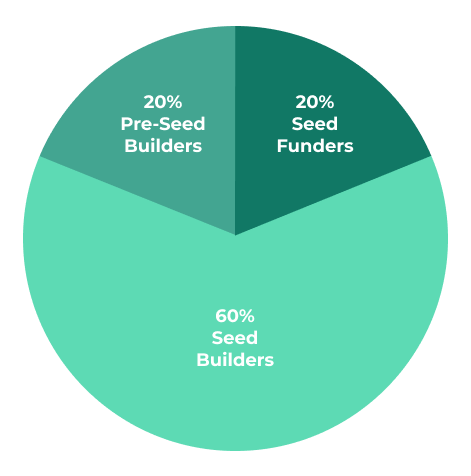
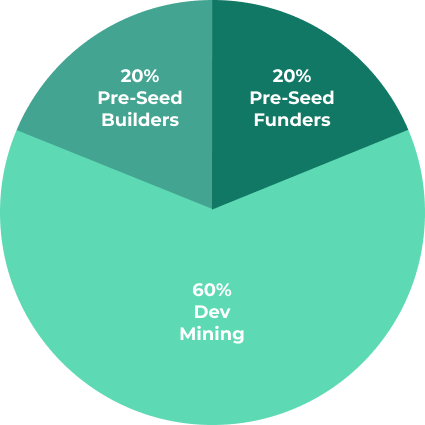
updates

diff --git a/README.md b/README.md
@@ -14,9 +14,9 @@ In the future, it is anticipated that the DAO will also govern:
 
 ## Getting Started
 
-### Seed Funder
+### Pre-Seed Funder
 
-To become a *Seed Funder*:
+To become a *Pre-Seed Funder*:
 
 1. Go to the [DAO's Token Request App](https://client.aragon.org/#/w3api/0x9bb4ea752a3096104c7765ad318b0f9cabaaf95f/).
 2. Click **Connect Wallet** in the top right corner and select your wallet of choice (i.e. Metamask).
@@ -28,9 +28,9 @@ To become a *Seed Funder*:
 
 `W3API` holders will receive this information and vote on your request. If approved, your funds will transfer to the DAO and `W3API` will be minted to your wallet. If rejected, you will be able to withdraw your funds. You may also withdraw your funds at any time before the request is approved.
 
-### Seed Builder
+### Dev Mining
 
-To become a *Seed Builder*:
+To become a *Builder*:
 1. Fork [web3-api/dao](https://github.com/web3-api/dao)'s `master` branch'.
 2. Duplicate the [`TEMPLATE.md`](./spending-proposals/TEMPLATE.md) file in the [`./spending-proposals`](./spending-proposals) folder.
 3. Name the file, complete all required fields, and feel free to get creative with anything else you'd like to add.
@@ -38,7 +38,7 @@ To become a *Seed Builder*:
 5. Create a proposal in the [DAO's snapshot space](https://snapshot.page/#/web3-api), linking to the open PR.
 6. If the DAO proposal passes, the PR can then be merged into master.
 
-*Seed Builders* are granted funds on a per-project basis by the Web3API DAO. Each funded project will have its own spending proposal that helps the DAO budget, maintain accountability, and schedule developments.
+*Builders* are granted funds and `W3API` tokens on a per-project basis by the Web3API DAO. Projects are approved ahead of time to help manage the DAO budget, maintain accountability, and schedule developments.
 
 ## Token Distribution
 > NOTE: Tokens are initially set to be non-transferable.
@@ -48,8 +48,8 @@ To become a *Seed Builder*:
 ### Pre-Seed Builders
 At launch 4,000 `W3API` are minted to *Pre-Seed Builders* in proportion to work contributed before launch on October 1st (viewable [here](./token-allocations/pre-seed-builders.csv)).
 
-### Seed Funders
-4,000 `W3API` will be minted to *Seed Funders*, with a goal of raising $1M by December 31st. Tokens will be priced in three batches (viewable [here](./token-allocations/seed-funders.csv))
+### Pre-Seed Funders
+4,000 `W3API` will be minted to *Pre-Seed Funders*, with a goal of raising $1M by December 31st. Tokens will be priced in three batches (viewable [here](./token-allocations/pre-seed-funders.csv))
 
   | Batch | Supply | Price |
   |-|-|-|
@@ -57,10 +57,10 @@ At launch 4,000 `W3API` are minted to *Pre-Seed Builders* in proportion to work 
   | *B* | 1,500 `W3API`| $250 |
   | *C* | 1,000 `W3API`| $325 |  
 
-> NOTE: If all 4,000 `W3API` are not sold by December 31st, the remaining `W3API` *Seed Funder* allocation will be distributed pro-rata to existing *Seed Funders*.
+> NOTE: If all 4,000 `W3API` are not sold by December 31st, the remaining `W3API` *Pre-Seed Funder* allocation will be distributed pro-rata to existing *Pre-Seed Funders*.
 
-### Seed Builders
-12,000 `W3API` will be minted to *Seed Builders* in proportion to value-added contributions over the first 16 months (~750/month). `W3API` holders will decide on further fundraising and token emission plans after the 16 month seed period.
+### Dev Mining
+12,000 `W3API` will be minted to *Builders* in proportion to value-added contributions over the first 16 months (~750/month). `W3API` holders will decide on further fundraising and token emission plans after the 16 month pre-seed period.
 
 ## Use of Funds
 
@@ -73,7 +73,7 @@ In the first 16 months, it is anticipated that the DAO will allocate funds for:
 
 With the goal of delivering the following in 2021:
 
-<img src="./img/seed-goals.png" width="600px">
+<img src="./img/roadmap.png" width="600px">
 
 ## DAO Configuration
 
@@ -97,7 +97,7 @@ See the full configuration [here](https://client.aragon.org/#/w3api/permissions/
 
 ## Legal
 
-Holders of `W3API` do not constitute any sort of partnership or joint venture, only the right to participate in the governance of the DAO. Further, becoming a Seed Builder does not constitute any sort of partnership, joint venture, principal-agent relationship, or an employer-employee relationship. 
+Holders of `W3API` do not constitute any sort of partnership or joint venture, only the right to participate in the governance of the DAO. Further, becoming a Builder does not constitute any sort of partnership, joint venture, principal-agent relationship, or an employer-employee relationship. 
 
 ## FAQ
 
@@ -105,7 +105,7 @@ Holders of `W3API` do not constitute any sort of partnership or joint venture, o
 Once your token request is approved, you instantly have the power to vote on all on-chain decisions, such as spending funds or minting new tokens.
 
 **What funder protections are there?**  
-1. *Seed Funders* will approach equal voting power to *Pre-Seed Builders* as the seed round reaches conclusion (December 31st). This means that funders can protect their own best interests through voting. 
+1. *Pre-Seed Funders* will approach equal voting power to *Pre-Seed Builders* as the round reaches conclusion (December 31st). This means that funders can protect their own best interests through voting. 
 2. Furthermore, the *Support* level is set at 60% to ensure that EVERY decision has mutual support from both builders and funders.
 3. Lastly, the initial token holders are long-term committed builders (see *[Pre-Seed Builders](#Pre-Seed-Builders)* above) who have been contributing since before the project was funded.
 

diff --git a/spending-proposals/001-dorg-october-services.md b/spending-proposals/001-dorg-october-services.md
@@ -45,7 +45,7 @@ The goal is to walk the line between concrete planning and ad-hoc maneuvering ba
 ### Ops - 2.00 FTEs (352 hrs)
 1. OKR Development ([in progress](https://docs.google.com/document/d/1q4t2uFhRYxwcS-mijJQL_tqPFoiNhOZiD4mnNUAlZaQ/))
 2. Financial Projections ([in progress](docs.google.com/spreadsheets/d/1sBGH2DuNlUGBkPFMRkp4wuZr3N41IX5CGbeUzvGN0S8))
-3. Fundraising ([$230K raised](https://github.com/Web3-API/dao/blob/master/token-allocations/seed-funders.csv))
+3. Fundraising ([$230K raised](https://github.com/Web3-API/dao/blob/master/token-allocations/pre-seed-funders.csv))
 4. Partner Project Onboarding ([partners listed on website](https://web3api.dev), [MOUs ratified](https://github.com/Web3-API/dao/pull/9))
 
 ### Content - 0.50 FTEs (88 hrs)
